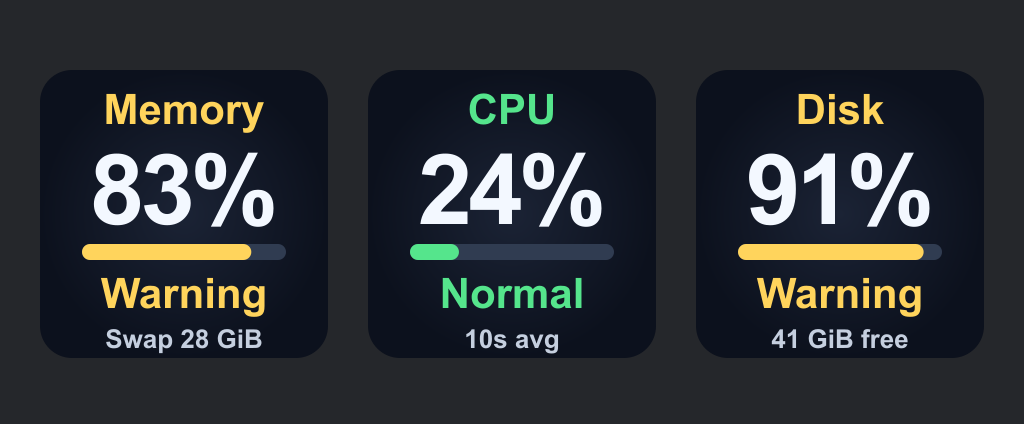
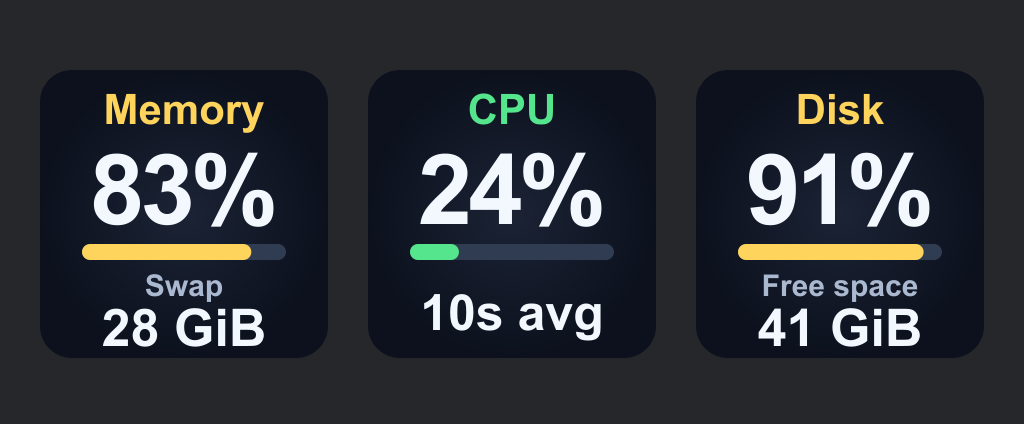
Use fixed status colors and enlarge lower key details

Changed region(s): [[0.7188, 0.6439, 0.9062, 0.8278], [0.0938, 0.6439, 0.2812, 0.8278], [0.4062, 0.6439, 0.5938, 0.8278]]

diff --git a/com.astakhoff.mac-health.sdPlugin/ui/settings.html b/com.astakhoff.mac-health.sdPlugin/ui/settings.html
@@ -3,10 +3,10 @@
 </style><img id="preview" alt="Mac Health key preview"><h3 id="heading">MAC HEALTH</h3><p id="description">Connecting to the local monitor…</p><div id="status">Waiting for measurements</div>
 <section id="cpu" hidden><h3>CPU WARNING THRESHOLDS</h3><p>Percent of total CPU capacity, averaged over up to 10 seconds.</p><div class="row"><label>Warning at (%)<input id="cpuWarning" type="number" min="1" max="99"></label><label>Critical at (%)<input id="cpuCritical" type="number" min="2" max="100"></label></div></section>
 <section id="disk" hidden><h3>DISK WARNING THRESHOLDS</h3><p>Warn when either available percentage or available GiB reaches its threshold. This is capacity, not disk activity or drive health.</p><div class="row"><label>Warning below (%)<input id="diskWarning" type="number" min="1" max="100"></label><label>Critical below (%)<input id="diskCritical" type="number" min="0" max="99"></label><label>Warning below (GiB)<input id="diskWarningGiB" type="number" min="0" step="1"></label><label>Critical below (GiB)<input id="diskCriticalGiB" type="number" min="0" step="1"></label></div></section>
-<h3>COLORS</h3><div class="colors"><label>Normal<input id="greenColor" type="color"></label><label>Warning<input id="yellowColor" type="color"></label><label>Critical<input id="redColor" type="color"></label></div><div id="error"></div><p>Updates every 2 seconds while a Mac Health key is visible. Each metric is a separate action. Press the key to open Activity Monitor, or Disk Utility for Disk.</p><p><a href="https://github.com/Astakhoff/stream_deck_mac_health/blob/main/docs/INSTALLATION.md">Setup and interpretation guide</a></p>
+<h3>STATUS COLORS</h3><p>Green: normal. Yellow: warning. Red: critical. Colors are fixed; status words appear here in settings, not on the key. Gray means readings are unavailable.</p><div id="error"></div><p>Updates every 2 seconds while a Mac Health key is visible. Each metric is a separate action. Press the key to open Activity Monitor, or Disk Utility for Disk.</p><p><a href="https://github.com/Astakhoff/stream_deck_mac_health/blob/main/docs/INSTALLATION.md">Setup and interpretation guide</a></p>
 <script>
 let ws,uuid,action,type,config={};
-const defaults={cpuWarning:80,cpuCritical:95,diskWarning:10,diskCritical:5,diskWarningGiB:20,diskCriticalGiB:10,greenColor:'#55e58c',yellowColor:'#ffd45c',redColor:'#ff6b70'};
+const defaults={cpuWarning:80,cpuCritical:95,diskWarning:10,diskCritical:5,diskWarningGiB:20,diskCriticalGiB:10};
 const ids=Object.keys(defaults);
 const gib=n=>typeof n==='number'?(n/1024**3).toFixed(1)+' GiB':'Unknown';
 function send(event,payload){if(ws?.readyState===1)ws.send(JSON.stringify({event,context:uuid,payload}));}
@@ -25,7 +25,7 @@ window.connectElgatoStreamDeckSocket=function(port,id,registerEvent,info,actionI
  if(error)text+='\n'+error+' — check the installation guide.';document.getElementById('status').textContent=text;};
 };
 ids.forEach(id=>document.getElementById(id).addEventListener('change',()=>{
- const next={...config};ids.forEach(k=>next[k]=k.endsWith('Color')?document.getElementById(k).value:Number(document.getElementById(k).value));
+ const next={...config};ids.forEach(k=>next[k]=Number(document.getElementById(k).value));
  const valid=Number.isFinite(next.cpuWarning)&&next.cpuWarning>=1&&next.cpuWarning<next.cpuCritical&&next.cpuCritical<=100&&next.diskCritical>=0&&next.diskCritical<next.diskWarning&&next.diskWarning<=100&&next.diskCriticalGiB>=0&&next.diskCriticalGiB<next.diskWarningGiB&&next.diskWarningGiB<=100000;
  if(!valid){document.getElementById('error').textContent='CPU: 1 ≤ warning < critical ≤ 100. Disk: warning > critical ≥ 0; free-percent thresholds must be ≤ 100 and GiB thresholds ≤ 100000.';return;}
  document.getElementById('error').textContent='';config=next;send('setSettings',config);

diff --git a/com.astakhoff.mac-health.sdPlugin/bin/metrics.js b/com.astakhoff.mac-health.sdPlugin/bin/metrics.js
@@ -1,10 +1,9 @@
 'use strict';
 const GIB = 1024 ** 3;
 const finite = (n) => typeof n === 'number' && Number.isFinite(n);
-const defaults = {greenColor:'#55e58c',yellowColor:'#ffd45c',redColor:'#ff6b70',cpuWarning:80,cpuCritical:95,diskWarning:10,diskCritical:5,diskWarningGiB:20,diskCriticalGiB:10};
+const defaults = {cpuWarning:80,cpuCritical:95,diskWarning:10,diskCritical:5,diskWarningGiB:20,diskCriticalGiB:10};
 function settings(raw={}) {
   const s={...defaults};
-  for(const key of ['greenColor','yellowColor','redColor']) if(/^#[0-9a-f]{6}$/i.test(raw[key])) s[key]=raw[key];
   for(const key of ['cpuWarning','cpuCritical','diskWarning','diskCritical','diskWarningGiB','diskCriticalGiB']) if(raw[key]!==undefined && Number.isFinite(Number(raw[key]))) s[key]=Number(raw[key]);
   if(!(s.cpuWarning>=1 && s.cpuWarning<s.cpuCritical && s.cpuCritical<=100)) {s.cpuWarning=80;s.cpuCritical=95;}
   if(!(s.diskCritical>=0 && s.diskCritical<s.diskWarning && s.diskWarning<=100)) {s.diskWarning=10;s.diskCritical=5;}
@@ -50,8 +49,8 @@ const gib=(n)=>finite(n)?(n/GIB).toFixed(n/GIB<10?1:0)+' GiB':'Unknown';
 function view(kind,data,config={},error=null,now=Date.now()) {
   if(!data || error || now-data.timestamp>6500 || data.timestamp>now+5000) return {title:kind==='cpu'?'CPU':kind==='disk'?'Disk':'Memory',main:'—',label:data?'Offline':'Waiting',detail:'Open settings',percent:null,level:'unknown'};
   const level=classify(kind,data,config), label={normal:'Normal',warning:'Warning',critical:'Critical',unknown:'Unknown'}[level];
-  if(kind==='memory') return {title:'Memory',main:data.memory?Math.round(data.memory.percent)+'%':'—',label,detail:data.memory?.swap!==null&&data.memory? 'Swap '+gib(data.memory.swap):'Swap unknown',percent:data.memory?.percent??null,level};
+  if(kind==='memory') return {title:'Memory',main:data.memory?Math.round(data.memory.percent)+'%':'—',label,detail:data.memory?.swap!==null&&data.memory? 'Swap '+gib(data.memory.swap):'Swap unknown',detailLabel:'Swap',detailValue:data.memory?gib(data.memory.swap):'Unknown',percent:data.memory?.percent??null,level};
   if(kind==='cpu') return {title:'CPU',main:finite(data.cpuAverage)?Math.round(data.cpuAverage)+'%':'—',label:finite(data.cpuAverage)?label:'Sampling',detail:finite(data.cpuAverage)?data.cpuWindowSeconds+'s avg':'First sample…',percent:data.cpuAverage,level};
-  return {title:'Disk',main:data.disk?Math.round(data.disk.percent)+'%':'—',label,detail:data.disk?gib(data.disk.available)+' free':'No disk data',percent:data.disk?.percent??null,level};
+  return {title:'Disk',main:data.disk?Math.round(data.disk.percent)+'%':'—',label,detail:data.disk?gib(data.disk.available)+' free':'No disk data',detailLabel:'Free space',detailValue:data.disk?gib(data.disk.available):'Unknown',percent:data.disk?.percent??null,level};
 }
 module.exports={GIB,defaults,settings,normalize,createAverage,classify,view,gib};

diff --git a/com.astakhoff.mac-health.sdPlugin/bin/render.js b/com.astakhoff.mac-health.sdPlugin/bin/render.js
@@ -1,10 +1,14 @@
 'use strict';
-const {settings}=require('./metrics');
+const palette={normal:'#55e58c',warning:'#ffd45c',critical:'#ff6b70',unknown:'#91a1b9'};
 const escape=(s)=>String(s).replaceAll('&','&amp;').replaceAll('<','&lt;').replaceAll('>','&gt;').replaceAll('"','&quot;');
 function render(v,raw={}) {
-  const s=settings(raw);
-  const color={normal:s.greenColor,warning:s.yellowColor,critical:s.redColor,unknown:'#91a1b9'}[v.level]||'#91a1b9';
+  const color=palette[v.level]||palette.unknown;
+  const bottom=v.level==='unknown'
+    ? `<text x="72" y="113" font-size="16" fill="${color}">${escape(v.label)}</text><text x="72" y="137" font-size="17" fill="#c5cfdf">${escape(v.detail)}</text>`
+    : v.detailLabel
+      ? `<text x="72" y="113" font-size="15" fill="#aab9d0">${escape(v.detailLabel)}</text><text x="72" y="138" font-size="26" fill="#f3f8ff">${escape(v.detailValue)}</text>`
+      : `<text x="72" y="130" font-size="25" fill="#f3f8ff">${escape(v.detail)}</text>`;
   const percent=typeof v.percent==='number'&&Number.isFinite(v.percent)?Math.max(0,Math.min(100,v.percent)):null;
-  return `<svg xmlns="http://www.w3.org/2000/svg" width="144" height="144" viewBox="0 0 144 144"><defs><radialGradient id="bg"><stop stop-color="#1b2335"/><stop offset="1" stop-color="#0c111d"/></radialGradient></defs><rect width="144" height="144" rx="16" fill="url(#bg)"/><g font-family="Arial,Helvetica,sans-serif" text-anchor="middle" font-weight="800"><text x="72" y="27" font-size="21" fill="${color}">${escape(v.title)}</text><text x="72" y="77" font-size="49" letter-spacing="-2" fill="#f3f8ff">${escape(v.main)}</text><rect x="21" y="87" width="102" height="8" rx="4" fill="#303c51"/>${percent>0?`<rect x="21" y="87" width="${102*percent/100}" height="8" rx="4" fill="${color}"/>`:''}<text x="72" y="119" font-size="21" fill="${color}">${escape(v.label)}</text><text x="72" y="139" font-size="13" fill="#c5cfdf">${escape(v.detail)}</text></g></svg>`;
+  return `<svg xmlns="http://www.w3.org/2000/svg" width="144" height="144" viewBox="0 0 144 144"><defs><radialGradient id="bg"><stop stop-color="#1b2335"/><stop offset="1" stop-color="#0c111d"/></radialGradient></defs><rect width="144" height="144" rx="16" fill="url(#bg)"/><g font-family="Arial,Helvetica,sans-serif" text-anchor="middle" font-weight="800"><text x="72" y="27" font-size="21" fill="${color}">${escape(v.title)}</text><text x="72" y="77" font-size="49" letter-spacing="-2" fill="#f3f8ff">${escape(v.main)}</text><rect x="21" y="87" width="102" height="8" rx="4" fill="#303c51"/>${percent>0?`<rect x="21" y="87" width="${102*percent/100}" height="8" rx="4" fill="${color}"/>`:''}${bottom}</g></svg>`;
 }
 module.exports={render};

diff --git a/README.md b/README.md
@@ -14,7 +14,7 @@ The keys help you notice resource pressure while working with many applications.
 | CPU | Average total CPU usage over up to 10 seconds | Configurable CPU thresholds | Actual averaging window |
 | Disk | Used startup data-volume capacity | Configurable available-space thresholds | Available space in GiB |
 
-Each action has its own settings. All visible actions share one small native sampler, which reads system counters every **2 seconds**. Sampling stops when no Mac Health action is visible. Press Memory or CPU to open Activity Monitor; press Disk to open Disk Utility.
+Status words are hidden on keys: the title and bar use fixed green (normal), yellow (warning), and red (critical). Swap and free-space amounts use the enlarged lower area. Status text remains in action settings; unavailable readings stay explicitly marked. Each action has its own thresholds where applicable. All visible actions share one small native sampler, which reads system counters every **2 seconds**. Sampling stops when no Mac Health action is visible. Press Memory or CPU to open Activity Monitor; press Disk to open Disk Utility.
 
 ### Memory
 

diff --git a/docs/INSTALLATION.md b/docs/INSTALLATION.md
@@ -10,7 +10,7 @@
 
 The keys are independent. They do not alternate between metrics and there is no combined key. Add them to any existing page, or create a separate page for Mac Health.
 
-Select a key to customize its three colors. CPU has usage thresholds; Disk has available-space percentage and GiB thresholds. Memory uses macOS pressure status rather than configurable occupied-RAM thresholds.
+Colors are fixed: green means normal, yellow warning, and red critical. These words appear only in the settings panel; the key uses that space for larger details. CPU has configurable usage thresholds; Disk has configurable available-space percentage and GiB thresholds. Memory uses macOS pressure status rather than configurable occupied-RAM thresholds.
 
 ## Reading the keys
 

diff --git a/CHANGELOG.md b/CHANGELOG.md
@@ -1,5 +1,11 @@
 # Changelog
 
+## 1.1.0 — 2026-11-02
+
+- Replace Normal / Warning / Critical key labels with fixed green / yellow / red colors.
+- Enlarge swap, free-space, and CPU-window details using the available lower area.
+- Keep unavailable-state labels and detailed status in action settings.
+
 ## 1.0.0 — 2026-11-02
 
 - Add separate Memory, CPU, and Disk actions for macOS.
